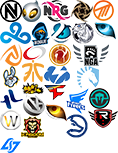
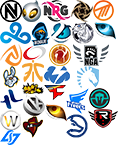
-Kingdom +Renegades flair

diff --git a/source/styles.css b/source/styles.css
@@ -543,7 +543,7 @@ only screen and (min-device-pixel-ratio: 2), only screen and (min-resolution: 2d
 
 
 /* Body Content - Frontpage */
-body >.content {
+body:not(.submit-page)>.content {
 	animation: 0.6s content-fadein 0.1s;
 	margin: 16px 352px 64px 16px;
 	padding: 0;
@@ -1969,7 +1969,6 @@ only screen and (min-device-pixel-ratio: 2), only screen and (min-resolution: 2d
 }
 
 .side .md h4 a {
-	display: block;
 	padding-right: 32px;
 }
 .side .md h4 a:after {
@@ -2496,16 +2495,16 @@ only screen and (min-device-pixel-ratio: 2), only screen and (min-resolution: 2d
 }
 
 .comments-page .comment .expand {
-	background: rgba(0, 0, 0, .01);
-	border-radius: 3px 0 0 3px;
+	background: rgba(0, 0, 0, .02);
+	border-radius: 1px 0 0 1px;
 	bottom: 0;
 	cursor: default;
-	font-size: 10px;
+	font-size: 0;
 	left: 0;
-	padding: 4px;
 	position: absolute;
 	top: 0;
-	transition: background .06s ease-in-out, color .06s ease-in-out;
+	transition: background .06s ease-in-out;
+	width: 16px;
 }
 
 .comments-page .comment .expand:hover {
@@ -2522,16 +2521,20 @@ only screen and (min-device-pixel-ratio: 2), only screen and (min-resolution: 2d
 	padding: 10px 16px 16px
 }
 
+.comment.collapsed .score, .comments-page .comment.collapsed time {
+	vertical-align: bottom;
+}
+
 .comment.collapsed .tagline :not(.expand), .comment.collapsed .tagline a :not(.expand), .comment.collapsed .search-result-meta :not(.expand), .comment.collapsed .search-result-meta a :not(.expand) {
 	font-style: normal
 }
 
-.comment-collapsed .numchildren {
+.comment.collapsed a.numchildren {
 	color: #98ABBA;
 }
 
 .comment.collapsed a.expand:after {
-	content: "ah ";
+	content: "";
 	position: absolute;
 	display: block;
 	width: calc(100% - 368px);
@@ -2822,11 +2825,11 @@ body.res.comments-page .side .linkinfo .score {
 }
 
 .submit-page .content {
-	margin: 24px auto 0 auto;
+	margin: -58px auto 0 auto;
 }
 
 .submit-page #header .pagename a {
-	top: -120px;
+	top: -126px;
 }
 
 .submit-page #header-img.default-header, .submit-page #header-img {
@@ -2854,24 +2857,44 @@ body.res.comments-page .side .linkinfo .score {
 .submit-page #newlink.submit.content ul.tabmenu.formtab {
 	background: 0;
 	border: none;
-	border-radius: 2px;
+	border-radius: 1px;
 	padding: 0;
 	position: relative;
+	z-index: 99;
 }
 
 .submit-page #newlink.submit.content .tabmenu.formtab a {
-	background: #FFF;
+	background: rgba(67, 155, 218, .1);
 	border: none;
-	color: #888;
+	color: #4399DE;
 	display: inline-block;
 	font-size: 16px;
-	font-weight: bold;
-	line-height: 48px;
-	padding: 0;
+	line-height: 42px;
 	text-align: center;
 	text-transform: uppercase;
-	transition: background 0.12s ease-in-out, color 0.12s ease-in-out;
+	transition: all 0.12s ease-in-out;
 	width: 50%;
+}
+
+.submit-page #newlink.submit.content .tabmenu.formtab a:before {
+	border-bottom: 2px solid #4399de;
+	bottom: 0;
+	content: "";
+	display: block;
+	left: 0;
+	opacity: 0;
+	position: absolute;
+	right: 0;
+	transform: scaleX(.45);
+	transition: transform .14s ease-in-out, opacity .14s ease-in-out
+}
+.submit-page #newlink.submit.content .tabmenu.formtab li:last-child a:before {
+	left: 50%;
+}
+
+.submit-page #newlink.submit.content .tabmenu.formtab li:not(.selected) a:hover:before {
+	opacity: 1;
+	transform: scaleX(1);
 }
 
 .res-nightmode .submit-page #newlink.submit.content .tabmenu.formtab a {
@@ -2880,20 +2903,19 @@ body.res.comments-page .side .linkinfo .score {
 }
 
 .submit-page .tabmenu li:first-child a {
-	border-radius: 3px 0 0 0;
+	border-radius: 1px 0 0 0;
 }
 .submit-page .tabmenu li:last-child a {
-	border-radius: 0 3px 0 0;
+	border-radius: 0 1px 0 0;
 }
 
 .submit-page #newlink.submit.content .tabmenu.formtab .selected a {
+	background: #439BDA;
+	border-bottom: 2px solid #5AEAFF;
+	color: #FFF;
 	font-size: 16px;
-	background: none;
-	color: #fff;
-	border-bottom: 4px solid;
+	line-height: 40px;
 }
-
-.submit-page #newlink.submit.content .tabmenu.formtab a:hover {color: #fff;}
 
 .submit-page .formtabs-content {border-top: 0;padding-top: 0;}
 
@@ -2915,7 +2937,6 @@ body.res.comments-page .side .linkinfo .score {
 	background: #0079D3;
 }
 
-.submit_text.enabled.roundfield .md {color: #fff;}
 .submit_text ol, .submit_text ul {margin-left: -1em;}
 
 .submit-page .infobar {display: none !important;}
@@ -2946,18 +2967,24 @@ body.res.comments-page .side .linkinfo .score {
 }
 
 .submit-page #newlink.submit.content .btn {
-	width: 100%;
-	height: auto;
-	margin-top: 16px;
+	background: #439BDA;
 	cursor: pointer;
-	text-transform: capitalize;
 	font: 17px Roboto,-apple-system,BlinkMacSystemFont,"Helvetica Neue",Helvetica,Arial,sans-serif;
-	padding: 16px;
+	height: auto;
+	letter-spacing: 1px;
 	margin-bottom: 48px;
+	margin-top: 16px;
+	padding: 16px;
+	text-align: center;
+	text-transform: uppercase;
+	width: 100%;
 }
-
 .submit-page #newlink.submit.content .btn:hover {
-	box-shadow: 0 2px 12px rgba(0, 0, 0, 0.48);
+	box-shadow: none;
+	opacity: .9;
+}
+.submit-page #newlink.submit.content .btn:after {
+	display: none;
 }
 
 body #newlink-with-image-upload .file-upload-button {
@@ -3321,7 +3348,7 @@ pre {
 }
 
 .link .flair-moderator {
-	font-size: 10px;
+	font-size: 11px;
 }
 
 .flair-moderator {
@@ -3329,10 +3356,9 @@ pre {
 	border-radius: 1px;
 	color: #FFF;
 	font-family: inherit;
-	font-size: 10px;
+	font-size: 11px;
 	margin: 0 4px;
 	padding: 2px 4px;
-	text-transform: uppercase;
 }
 
 .flair-verified {
@@ -3393,7 +3419,7 @@ only screen and (-webkit-min-device-pixel-ratio: 2),
 only screen and (min-device-pixel-ratio: 2), only screen and (min-resolution: 2dppx) {
 	.flair-fan {
 		background: url(%%flairs-teams-2x%%) no-repeat;
-		background-size: 118px 153px;
+		background-size: 118px 145px;
 	}
 	.flair-faze {
 		width: 21px;
@@ -3493,12 +3519,12 @@ only screen and (min-device-pixel-ratio: 2), only screen and (min-resolution: 2d
 	width: 21px;
 }
 .flair-luxury-watch-red, .md a[href*="luxury-watch-red"] {
-	background-position: 0 -110px;
+	background-position: 0 -109px;
 	height: 21px;
 }
 .flair-vici, .md a[href*="vici"] {
 	background-position: -23px -97px;
-	height: 20px;
+	height: 19px;
 }
 .flair-kongdoo-panthera, .md a[href*="kongdoo-panthera"] {
 	background-position: -44px -104px;
@@ -3518,13 +3544,14 @@ only screen and (min-device-pixel-ratio: 2), only screen and (min-resolution: 2d
 	background-position: -94px -22px;
 	height: 17px;
 }
-.flair-kingdom, .md a[href*="kingdom"] {
+.flair-renegades, .md a[href*="renegades"] {
 	background-position: -22px -117px;
-	width: 23px;
+	width: 21px;
+	height: 20px;
 }
 .flair-clg, .md a[href*="clg"] {
-	background-position: 0 -138px;
-	height: 16px;
+	background-position: 0 -130px;
+	height: 15px;
 }
 
 /* User flairs for ranks */
@@ -4977,22 +5004,17 @@ body.submit-page .roundfield input:not([type=checkbox]),
 
 @media only screen and (min-device-width: 737px) {
 	.submit-page .submit_text.enabled.roundfield {
-		border-radius: 0 0 3px 3px;
-		box-shadow: none;
+		background: #FFF;
+		border-radius: 0 0 1px 1px;
+		padding-top: 8px;
 		position: absolute;
-		top: 318px;
+		top: 254px;
 		width: 700px;
 	}
 
 	.submit-page .formtabs-content {
-	margin-top: 126px;
-}
-}
-
-.submit-page #newlink.submit.content .tabmenu.formtab .selected a, .submit-page #newlink.submit.content .tabmenu.formtab a:hover {
-	background: #439BDA;
-	border-bottom: none;
-	color: #FFF;
+		margin-top: 156px;
+	}
 }
 
 .submit-page .roundfield-content {
@@ -5051,22 +5073,6 @@ body.submit-page .content input, .submit-page .content textarea {
 
 .submit-page .roundfield label {
 	font-size: 14px;
-}
-
-.submit-page #newlink.submit.content .btn {
-	background: #439BDA;
-	font-weight: 600;
-	letter-spacing: 1px;
-	text-align: center;
-	text-transform: uppercase;
-}
-
-.submit-page #newlink.submit.content .btn:hover {
-	box-shadow: none;
-	opacity: .9;
-}
-.submit-page #newlink.submit.content .btn:after {
-	display: none;
 }
 
 .submit-page .footer-parent {
